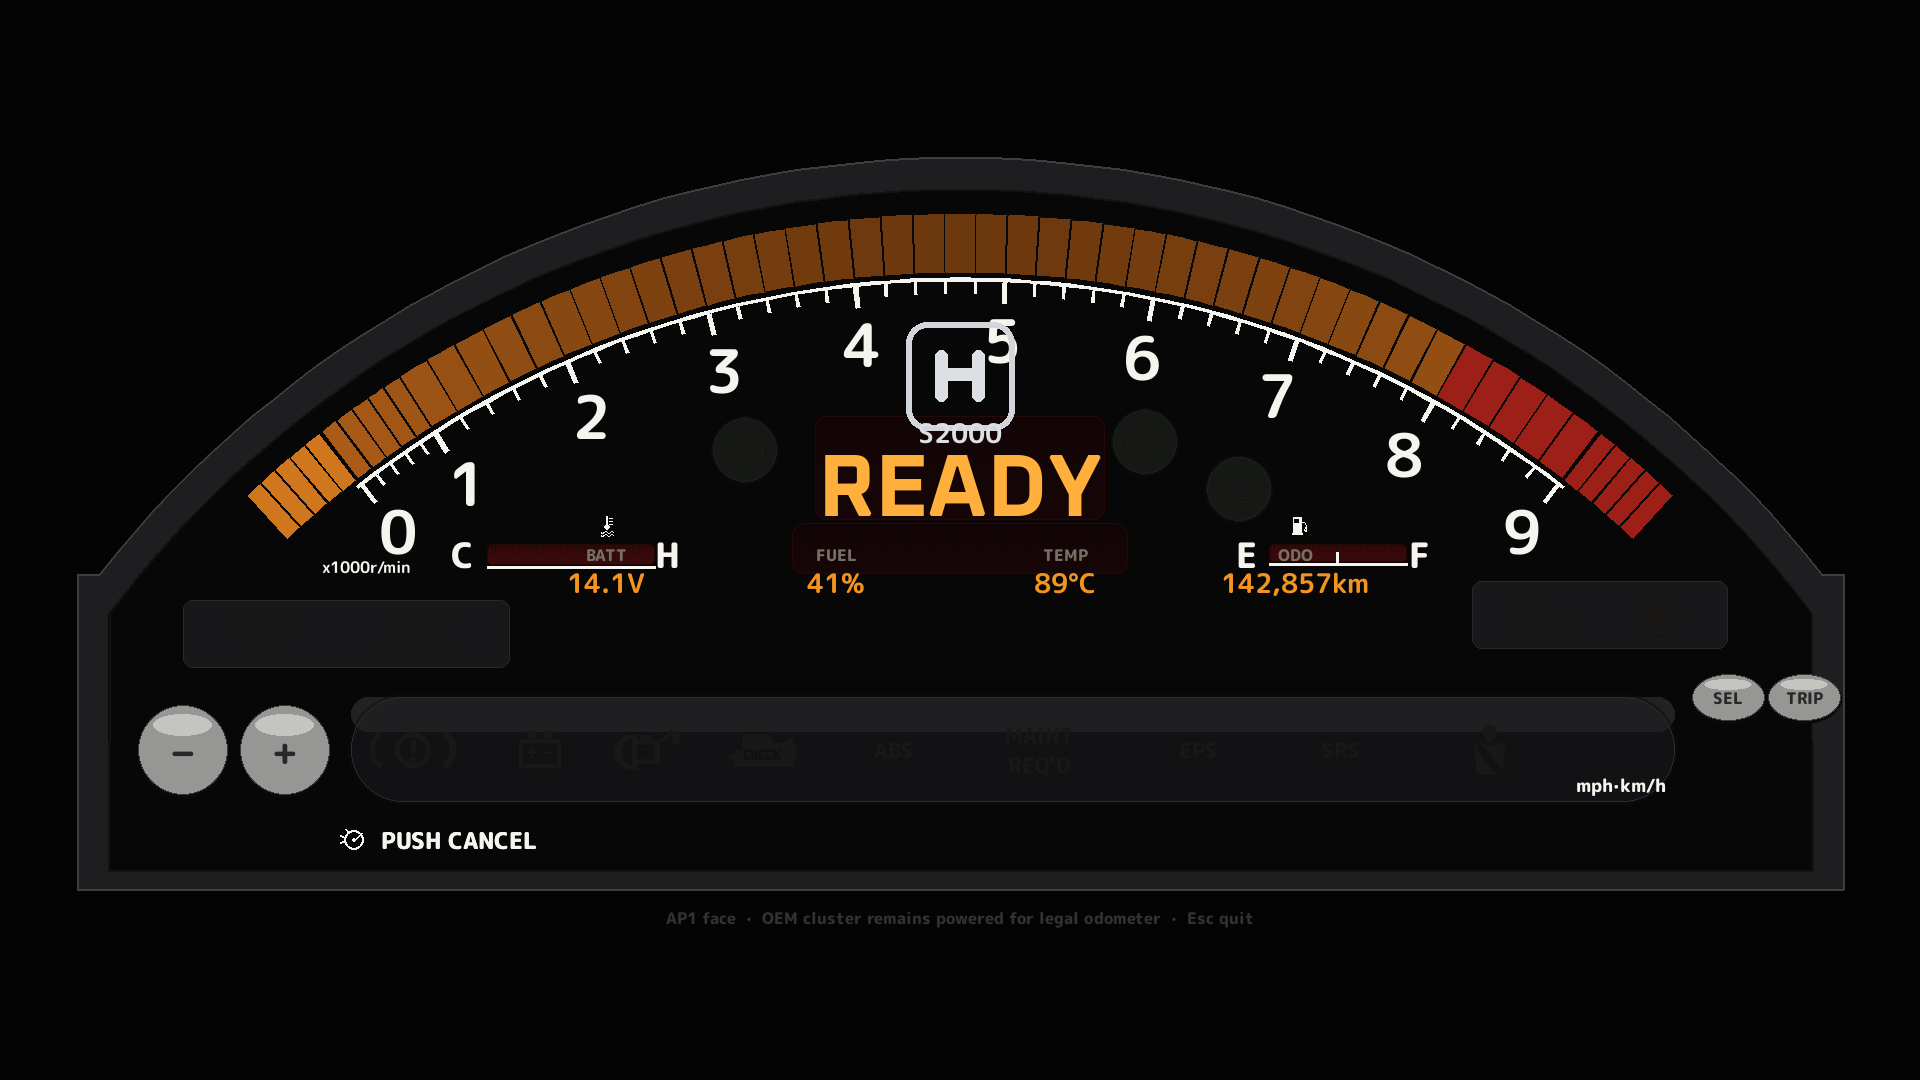
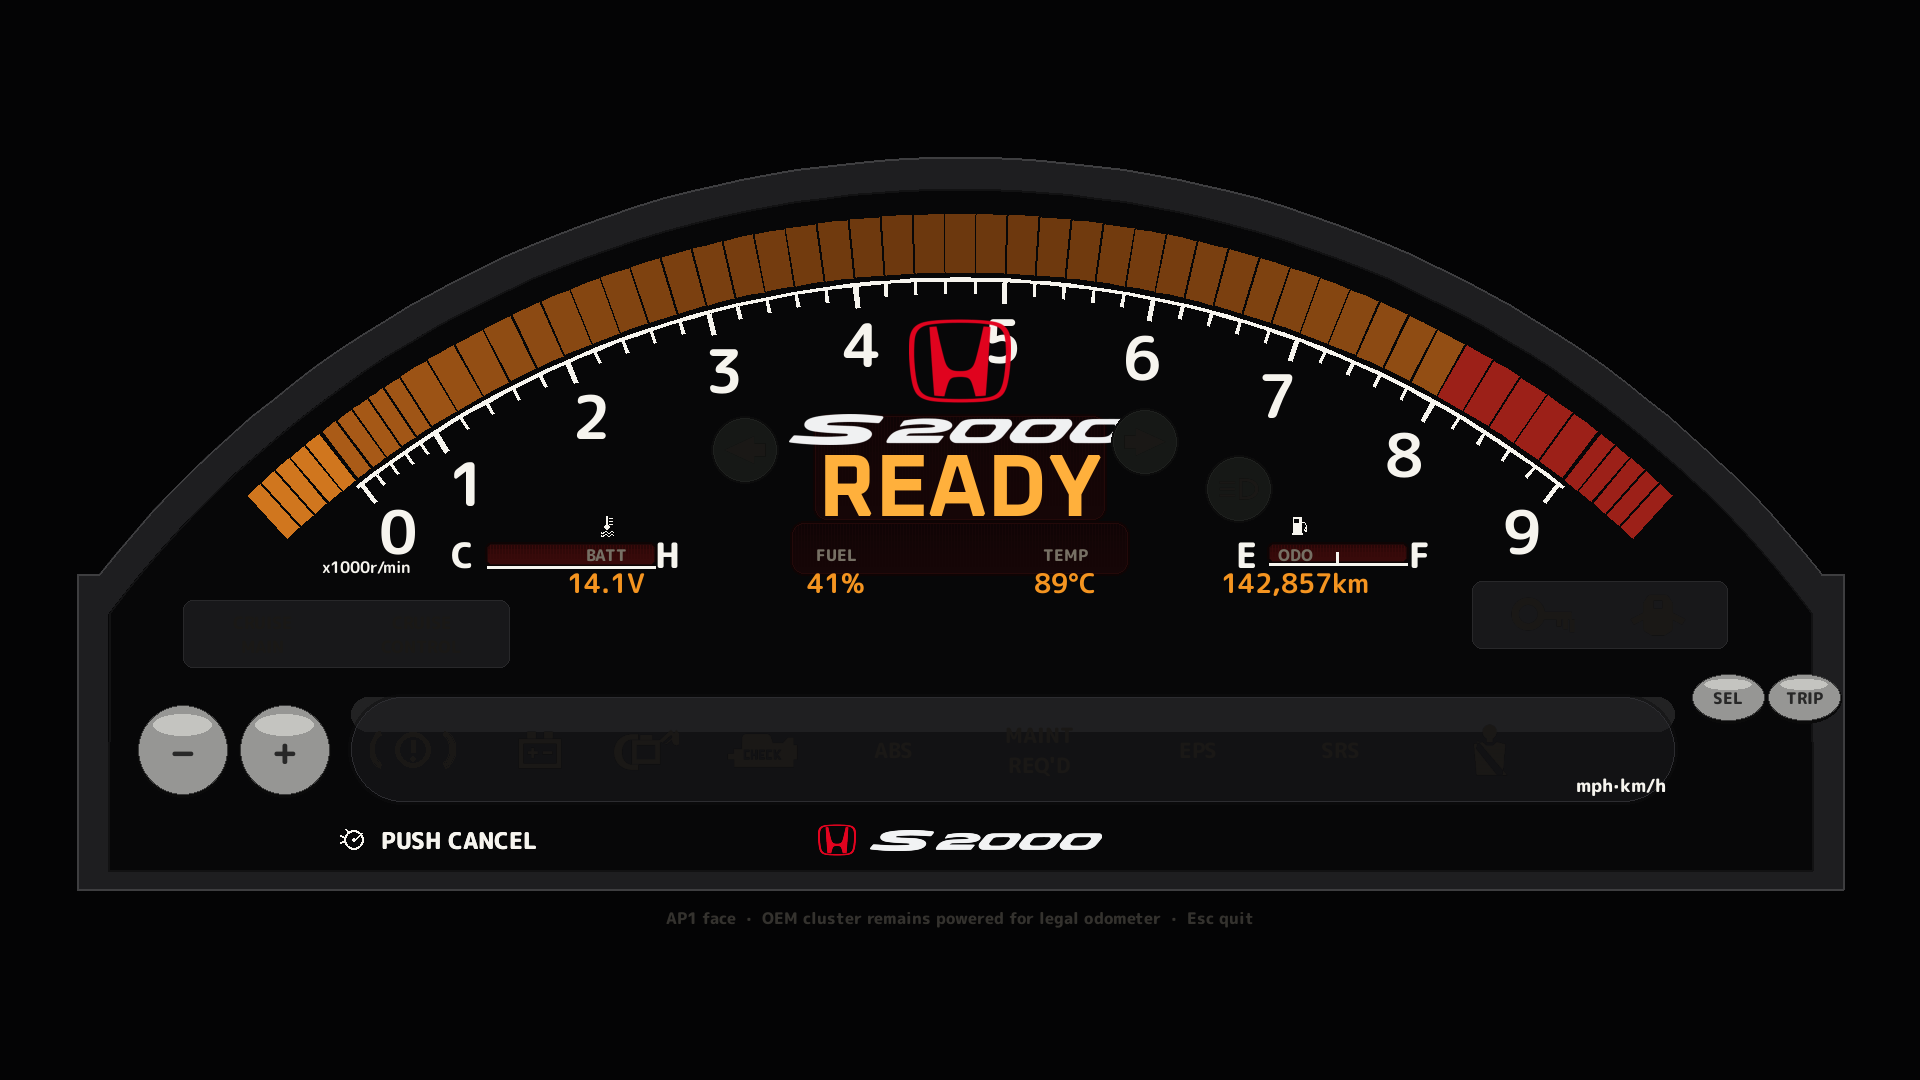
fix(cluster): print Honda H and S2000 wordmark on the live bezel
Keep the real marks visible after boot, not only on READY.

Changed region(s): [[0.4062, 0.275, 0.5938, 0.4278], [0.4062, 0.7639, 0.5938, 0.7944]]

diff --git a/apps/harness/components/ClusterFace.tsx b/apps/harness/components/ClusterFace.tsx
@@ -494,6 +494,13 @@ function Hardware({ g, lamps, bulbCheck }: { g: FaceGeom; lamps: Record<string, 
       <OvalButton g={g} c={s.btn_sel} label={s.sel_label} />
       <OvalButton g={g} c={s.btn_trip} label="TRIP" />
       <CancelMark g={g} />
+      <BrandLockup
+        g={g}
+        x={g.module.w / 2}
+        y={hpx(g, g.spec.cancel_text.y)}
+        hSize={wpx(g, 0.022)}
+        badgeH={wpx(g, 0.012)}
+      />
       <text className="unit-label" x={units.x} y={units.y + wpx(g, 0.004)} fontSize={wpx(g, 0.0105)} fill={WHITE} textAnchor="middle">
         mph·km/h
       </text>
@@ -504,13 +511,44 @@ function Hardware({ g, lamps, bulbCheck }: { g: FaceGeom; lamps: Record<string, 
 // --- boot card --------------------------------------------------------------------------------------
 const S2000_BADGE_ASPECT = 2731.535 / 245.88;
 
-function BrandMarks({ g }: { g: FaceGeom }) {
+function BrandLockup({
+  g,
+  x,
+  y,
+  hSize,
+  badgeH,
+}: {
+  g: FaceGeom;
+  x: number;
+  y: number;
+  hSize: number;
+  badgeH: number;
+}) {
+  const badgeW = badgeH * S2000_BADGE_ASPECT;
+  const gap = wpx(g, 0.008);
+  const total = hSize + gap + badgeW;
+  const x0 = x - total / 2;
+  return (
+    <g aria-hidden className="brand-lockup">
+      <image href="/docs/assets/honda-h-mark.svg" x={x0} y={y - hSize / 2} width={hSize} height={hSize} />
+      <image
+        href="/docs/assets/s2000-badge-on-dark.svg"
+        x={x0 + hSize + gap}
+        y={y - badgeH / 2}
+        width={badgeW}
+        height={badgeH}
+      />
+    </g>
+  );
+}
+
+function ReadyBrand({ g }: { g: FaceGeom }) {
   const mid = g.module.w / 2;
   const hSize = wpx(g, 0.058);
   const badgeH = wpx(g, 0.018);
   const badgeW = badgeH * S2000_BADGE_ASPECT;
   return (
-    <g aria-hidden className="brand-marks">
+    <g aria-hidden className="ready-brand">
       <image
         href="/docs/assets/honda-h-mark.svg"
         x={mid - hSize / 2}
@@ -540,7 +578,7 @@ function ReadyCard({ g, face }: { g: FaceGeom; face: DisplayState }) {
   ];
   return (
     <g className="ready-card">
-      <BrandMarks g={g} />
+      <ReadyBrand g={g} />
       <text x={cx} y={sw.y + sw.h * 0.78} textAnchor="middle" fontSize={wpx(g, 0.046)} fontWeight={700} fill={AMBER_HOT} className="ready-word" letterSpacing="0.06em">
         READY
       </text>

diff --git a/src/gauge_ui.py b/src/gauge_ui.py
@@ -676,12 +676,61 @@ def blit_text(surf, font, text: str, color, pos, anchor: str = "topleft") -> Non
     surf.blit(img, rect)
 
 
+_BRAND_DIR = Path(__file__).resolve().parents[1] / "assets" / "brand"
+_BRAND_CACHE: dict[str, object] = {}
+_S2000_BADGE_ASPECT = 2731.535 / 245.88
+
+
+def _brand_png(pygame, name: str):
+    cached = _BRAND_CACHE.get(name)
+    if cached is not None:
+        return cached
+    path = _BRAND_DIR / name
+    if not path.is_file():
+        raise FileNotFoundError(f"brand mark missing: {path}")
+    surf = pygame.image.load(str(path)).convert_alpha()
+    _BRAND_CACHE[name] = surf
+    return surf
+
+
+def _blit_brand(pygame, dest, name: str, cx: int, cy: int, max_w: int, max_h: int) -> None:
+    src = _brand_png(pygame, name)
+    sw, sh = src.get_size()
+    scale = min(max_w / sw, max_h / sh)
+    img = pygame.transform.smoothscale(src, (max(1, int(sw * scale)), max(1, int(sh * scale))))
+    dest.blit(img, img.get_rect(center=(cx, cy)))
+
+
+def _draw_bezel_brand(pygame, dest, g: FaceGeom) -> None:
+    """Honda H + S2000 wordmark on the lower bezel, live and boot."""
+    mx, my, mw, mh = g.module
+    cx = mx + mw // 2
+    cy = my + int(mh * g.spec.cancel_text.y)
+    h_size = max(16, int(mw * 0.022))
+    badge_h = max(8, int(mw * 0.012))
+    badge_w = max(40, int(badge_h * _S2000_BADGE_ASPECT))
+    gap = max(4, int(mw * 0.008))
+    total = h_size + gap + badge_w
+    left = cx - total // 2
+    _blit_brand(pygame, dest, "honda-h-mark.png", left + h_size // 2, cy, h_size, h_size)
+    _blit_brand(
+        pygame,
+        dest,
+        "s2000-badge.png",
+        left + h_size + gap + badge_w // 2,
+        cy,
+        badge_w,
+        badge_h,
+    )
+
+
 def reset_render_caches() -> None:
     """Drop cached fonts / surfaces. Call after ``pygame.quit()`` — SDL_ttf
     handles do not survive a re-init and dereferencing them segfaults."""
     _FONT_CACHE.clear()
     _STATIC_CACHE.clear()
     _ICON_CACHE.clear()
+    _BRAND_CACHE.clear()
 
 
 def build_fonts(pygame) -> dict:
@@ -1018,6 +1067,7 @@ def _draw_hardware_print(pygame, surf, g: FaceGeom) -> None:
     _cruise_cancel_icon(pygame, surf, ix, iy, int(g.w(0.012)), WHITE)
     blit_text(surf, _font(pygame, int(g.w(0.0135)), kind="round_x"), "PUSH CANCEL", WHITE, g.anchor_px(s.cancel_text), "midleft")
     blit_text(surf, _font(pygame, int(g.w(0.0105)), kind="round_x"), "mph\u00b7km/h", WHITE, g.anchor_px(s.units_label), "midright")
+    _draw_bezel_brand(pygame, surf, g)
 
     # in-arc round windows (turn / high beam) — dark glass, lit later
     for spot in s.arc_lamps:
@@ -1387,30 +1437,6 @@ def draw_hardware_strip(
         if spot.key == "batt_warn" and batt_low:
             lit = True
         _draw_lamp(pygame, surf, None, g, spot, lit, bulb_check)
-
-
-_BRAND_DIR = Path(__file__).resolve().parents[1] / "assets" / "brand"
-_BRAND_CACHE: dict[str, object] = {}
-
-
-def _brand_png(pygame, name: str):
-    cached = _BRAND_CACHE.get(name)
-    if cached is not None:
-        return cached
-    path = _BRAND_DIR / name
-    if not path.is_file():
-        raise FileNotFoundError(f"brand mark missing: {path}")
-    surf = pygame.image.load(str(path)).convert_alpha()
-    _BRAND_CACHE[name] = surf
-    return surf
-
-
-def _blit_brand(pygame, dest, name: str, cx: int, cy: int, max_w: int, max_h: int) -> None:
-    src = _brand_png(pygame, name)
-    sw, sh = src.get_size()
-    scale = min(max_w / sw, max_h / sh)
-    img = pygame.transform.smoothscale(src, (max(1, int(sw * scale)), max(1, int(sh * scale))))
-    dest.blit(img, img.get_rect(center=(cx, cy)))
 
 
 def draw_ready_card(fonts, surf, face: DisplayState, g: FaceGeom | None = None, pygame=None) -> None:
